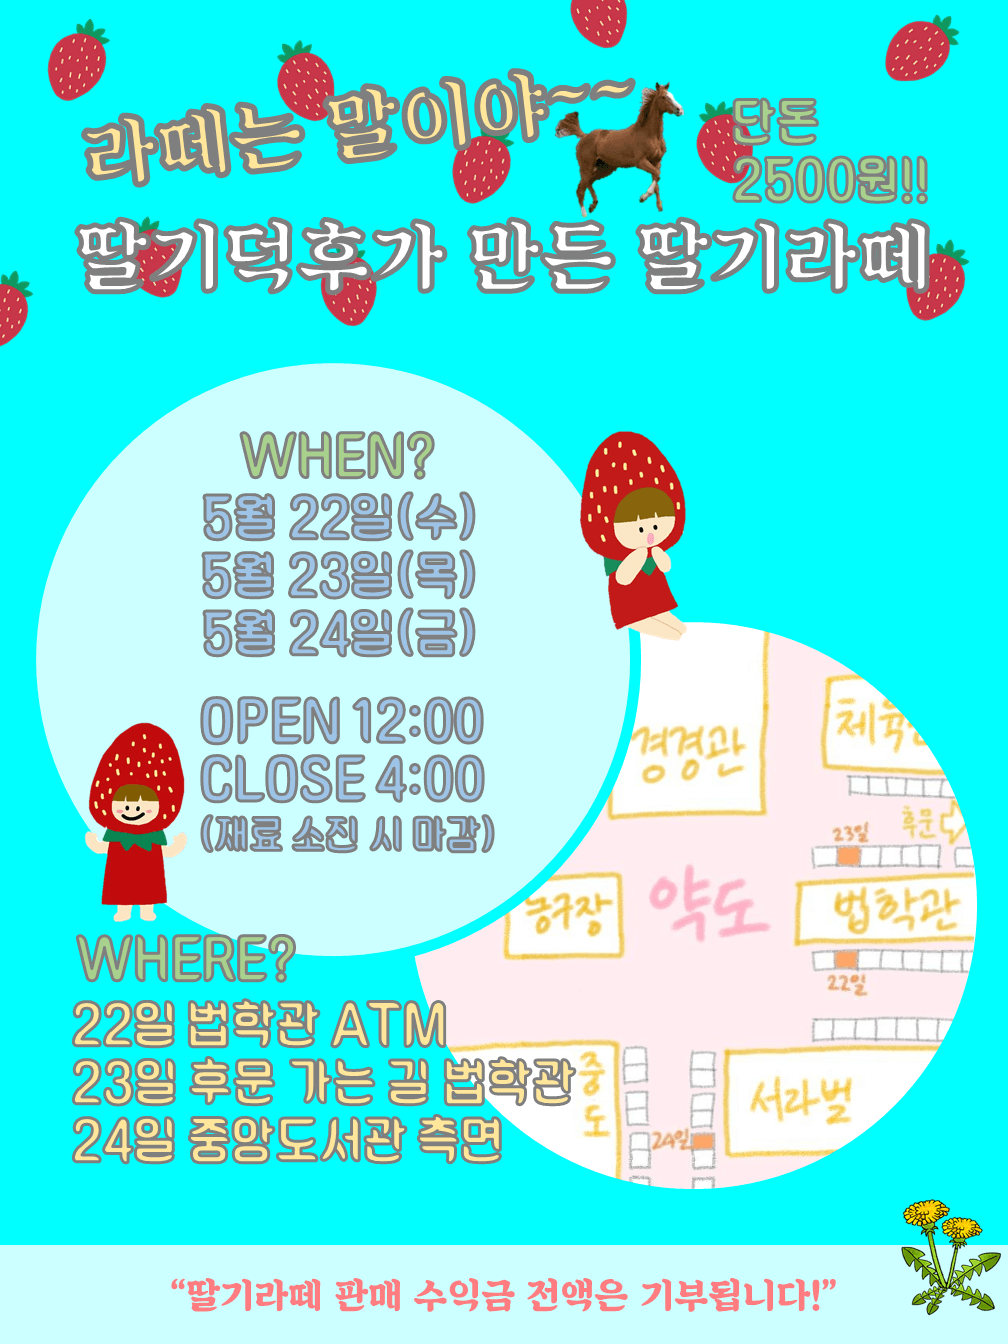
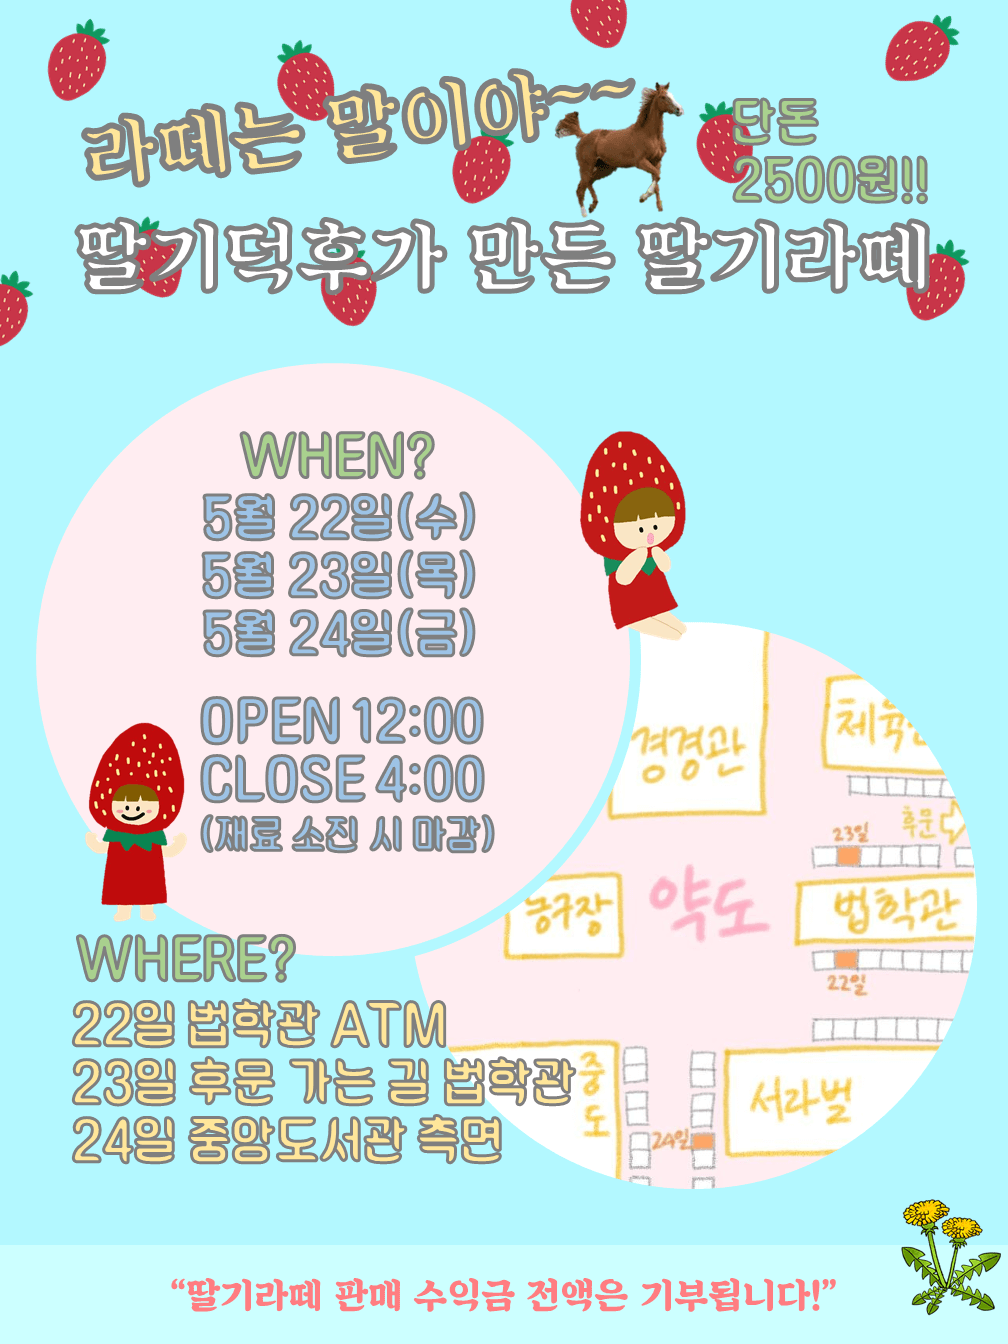
포스터 변경

diff --git a/advertisement.html b/advertisement.html
@@ -37,7 +37,7 @@
       <strong>23일</strong> - 체육관 맞은편 법학관<br>
       <strong>24일</strong> - 중앙도서관 서라벌 사이<br><br>
       <li><strong>포스터</strong></li>
-      <img src="img/poster_pink.png", id="pinkposter_img" width="50%"><img src="img/poster_blue.png", id="blueposter_img" width="50%">
+      <img src="img/poster_blue.png", id="blueposter_img" width="50%">
       </p>
       <p>
         <div id="copyright">

diff --git a/style.css b/style.css
@@ -217,12 +217,12 @@ a{
     height: 315;
   }
   #map_img{
-    width: 50%
+    width: 35%
   }
   #pinkposter_img{
-    width: 50%
+    width: 35%
   }
   #blueposter_img{
-    width: 50%
+    width: 35%
   }
 }
